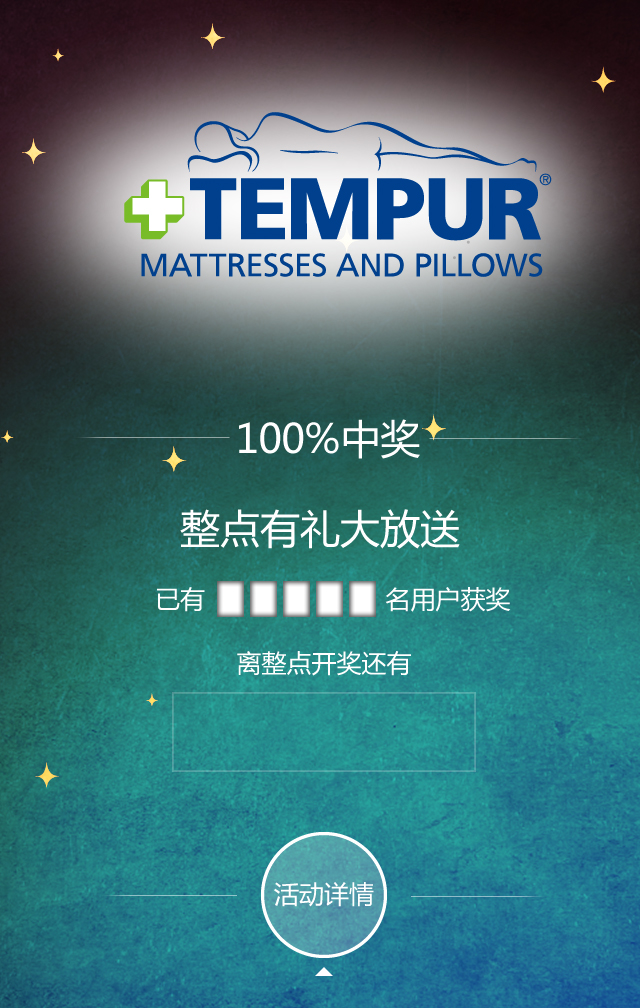
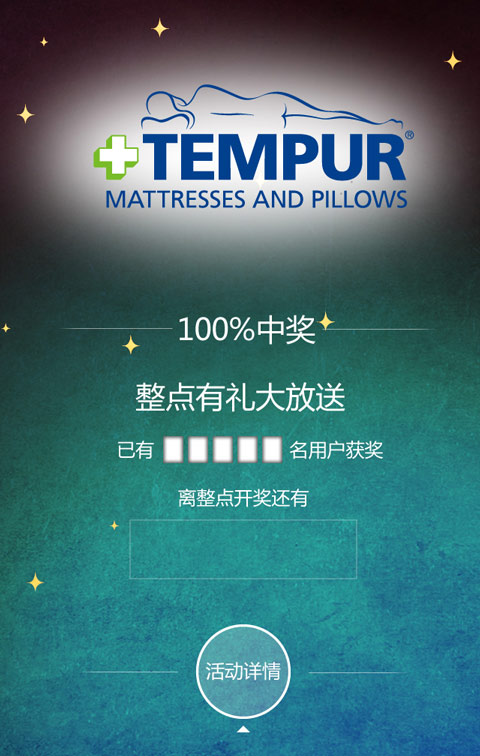
a

diff --git a/tempur/webview/bak/index.js b/tempur/webview/bak/index.js
@@ -1,13 +1,3 @@
-function run(){
-			var s = document.getElementById("dd");
-			if(s.innerHTML == 0){
-			//alert("a");
-			return false;
-			}
-			s.innerHTML = s.innerHTML * 1 - 1;
-			}
-		
-
 $(function(){
 	$(".hdxq h1 span img").click(function(){
 		$("#show_info").hide();
@@ -39,9 +29,6 @@ $(function(){
 	// 到计时
 	function countdown(){
 		var currentTime = new Date();
-		
-		//var hour=currentTime.getHours(); 
-		//alert(hour);
 		var remainMinutes = 59 - currentTime.getMinutes();
 		var remainSeconds = 60 - currentTime.getSeconds();
 
@@ -50,21 +37,7 @@ $(function(){
 		checkAction();
 	}
 	var countdown_tt = setInterval(countdown);
-     
-	
-	
-	
-		
-	
-	
-	
-	
-	
-	
-	
-	
-	
-	
+
 	function checkAction(){
 		if(new Date().getMinutes() <= 3 || true){
 			clearInterval(countdown_tt);
@@ -74,7 +47,6 @@ $(function(){
 				$step2.hide();
 				$('.box').show();
 				runYao();
-				window.setInterval("run();", 1000);
 			});
 		}else{
 			// 不可以摇
@@ -161,30 +133,25 @@ $(function(){
 	    	var num = getImgArr.length;;
 	    	$img_num.html("您已经摇出"+num+"/18,继续努力！");
 	    	if(num >= 18){
-	    	    
 	    		getAwards(true);
 				window.removeEventListener('devicemotion', deviceMotionHandler, false);
-				
 			}else{
-		
 				noNumCB && noNumCB();
-				
 			}
 	    }
-	    var award_arr = ['images/j1.jpg','images/j2.jpg','images/j3.jpg','images/j4.jpg']
 	    function getAwards(isBig){
 			$.getJSON('./php/counter.php?add=1');
 			var $big_small = $('.big_small');
-			var award_img;
 	    	if(isBig){
 	    		var text = '恭喜您获得TEMPUR体验大奖';
-	    		award_img = 'images/bigjiang.jpg';
 	    	}else{
 	    		var text = '恭喜您获得TEMPUR鼓励奖';
-	    		award_img = randArr(award_arr);
+	    		var $p_arr = $big_small.find('p');
+				var $rand_p = $(randArr($p_arr));
+				$rand_p.html($rand_p.html().replace(/^\d、?/,''));
+				$p_arr.remove();
+				$rand_p.appendTo($big_small);
 	    	}
-
-	    	$big_small.append('<p><img src="'+award_img+'"></p>');
 			$('.box').hide();
 			var $content = $('.content').show();
 			$content.find('h1').text(text);
@@ -199,21 +166,21 @@ $(function(){
 			});
 			// var cont=$(".content h1 img").attr('src');
 			//alert(cont);
-			$('#btn_share').attr('target','_blank').attr('href',share(location.href,'我在Tempur泰普尔微信摇一摇“享睡十八式”游戏中获得Tempur专享礼券，参与即可获奖，集齐18种睡姿更多奖品等着你！赶快来参加吧~~','http://html5cn.com.cn/webview/images/yao.jpg'));
+			$('#btn_share').click(function(){
+				share(location.href,'我在Tempur泰普尔微信摇一摇“享睡十八式”游戏中获得Tempur专享礼券，参与即可获奖，集齐18种睡姿更多奖品等着你！赶快来参加吧~~','http://html5cn.com.cn/webview/images/yao.jpg');
+			});
 	    }
 		if (window.DeviceMotionEvent) {
             window.addEventListener('devicemotion', deviceMotionHandler, false);
         } else {
-            alert('对不起，不支持您的手机型号！');
+            alert('not support mobile event');
         }	
 		
 		setTimeout(function(){
 			checkImgNum(getAwards);
-		},100*60*5);
+		},1000*60*5);
 	}
 	function share(url,title,pic){
-		return 'http://service.t.sina.com.cn/share/share.php?url='+url+'&title='+title+'&pic='+pic;
+		window.location = 'http://service.t.sina.com.cn/share/share.php?url='+url+'&title='+title+'&pic='+pic;
 	}
 })
-
-

diff --git a/tempur/webview/bak/1.html b/tempur/webview/bak/1.html
@@ -30,20 +30,17 @@
 		<div class="hdxq">
 			<h1><span><img src="images/x.jpg"></span>活动规则</h1>
 			<p>活动时间：<br>
-		现在起至03月31日，每个整点开始至整点的03分，参与TEMPUR微信摇一摇活动，体验小宇宙人的“享睡神功”，收集睡姿就有机会获得大奖！</p>
+		2014年03月21号至27号，11:00 至 20:03分，每个整点开始至整点的03分参与TEMPUR微信摇一摇活动收集睡姿
+		就有机会获得大奖!</p>
 		</div>
 		<div id="TB_overlay" class="TB_overlayBG"></div>
 	</div>
 </div>
-<div class="mains" id="mains" style="display:none">
+<div class="mains" style="display:none">
 </div>
 <div class="box" style="display:none">
-
-	<div class="you" style="text-align:center;"><img src="images/yhy.gif" style="margin:0 auto;width:320px;"></div>
+	<div class="you"><img src="images/yhy.gif" width="320"></div>
 	<div class="yt">
-		
-               <span class="djs">倒计时：<b id="dd">30</b>秒</span>
-               <span class="hd">滑动》》</span>
 		<span id="img_num">摇一摇，大奖马上就出来！</span>
 		<div class="img_list">
 			<ul>
@@ -62,18 +59,15 @@
 	<a id="btn_share" style="width:100px;height:100px;position:absolute;left:30%;bottom:10px;"></a>
 </div>
 <div class="big_small" style="display:none;position:relative">
-	<h1></h1>
-	<a id="btn_close_award" style="width:30px;height:30px;position:absolute;right:20px;top:20px;"><img src="images/xx.png" style="width:25px;"></a>
+	<h1>恭喜您获得：</h1>
+	<a id="btn_close_award" style="width:30px;height:30px;position:absolute;right:20px;top:20px;background:red;"></a>
+	<!--<p>购买枕头立减50元券1张</p>鼓励奖-->
 	
-	<!--大奖-->
-	<!-- <p><img src="images/bigjiang.jpg"></p> -->
+	<p>1、购买枕头立减50元券1张</p>
+    <p>2、购买床头垫立减500元券1张</p>
+    <p>3、购买枕头＋床垫送电动床再减550元</p>
+    <p>4、门店体验券1张</p>
 	
-	
-	<!--随机出图
-	<p><img src="images/j1.jpg"></p>
-	<p><img src="images/j2.jpg"></p>
-	<p><img src="images/j3.jpg"></p>
-	<p><img src="images/j4.jpg"></p>-->
 </div>
 </body>
 </html>

diff --git a/tempur/webview/bak/css.css b/tempur/webview/bak/css.css
@@ -49,7 +49,7 @@ a:hover { color:#F60; text-decoration:underline; }
 .xq a
 {width:50px;
 	height:50px;
-
+	background:#ccc;
 	display:block;}
 .hdxq
 {
@@ -223,7 +223,7 @@ a:hover { color:#F60; text-decoration:underline; }
 {
 	background:url(images/jiang.jpg) no-repeat;
 	background-size:cover;
-	height:620px;
+	height:504px;
 	width:100%;
 	overflow:hidden;
 	position:relative;
@@ -473,9 +473,8 @@ a:hover { color:#F60; text-decoration:underline; }
 #img_num{
 	position: absolute;
 	bottom: 90px;
-	left: 10px;
+	left: 50%;
 	padding: 3px;
-	width:158px;
 }
 
 .content
@@ -493,11 +492,11 @@ a:hover { color:#F60; text-decoration:underline; }
 {
 	text-align:center;
 	margin-bottom:40px;
-	font-size:22px;
-	padding-top:100px;}
+	font-size:30px;
+	padding-top:50px;}
 .content h2
 {
-	font-size:18px;
+	font-size:26px;
 	color:#4bc8fc;
 	font-weight:bold;
 	text-align:center;}
@@ -513,13 +512,14 @@ background-size:cover;
 .big_small h1
 {
 	font-size:30px;
-	
+	padding-top:50px;
+	margin-bottom:20px;
 padding-left:5%;}
 .big_small p
 {
 font-size:16px;
 height:auto;
-text-align:center;
+padding-left:5%;
 line-height:30px;}
 
 
@@ -542,17 +542,3 @@ line-height:30px;}
 	width: 100%;
 	overflow-x: auto;
 }
-.djs
-{
-position:absolute;
-bottom:150px;
-left:10px;}
-.hd
-{
-bottom:100px;
-position:absolute;
-right:10px;
-}
-.big_small p img
-{
-width:100%;}

diff --git a/html5/video/weatherEye/index.html b/html5/video/weatherEye/index.html
@@ -8,7 +8,7 @@
 <body>
 	<!-- <div>天气网眼</div> -->
 	<section class="video-player fl">
-		<video id="vodeo-dom" controls autoplay preload="none" width="100%" height="100%" >
+		<video id="vodeo-dom"  autoplay preload="none" width="100%" height="100%" >
 			<source src="" type='video/mp4' />
 		</video>
 	</section>
